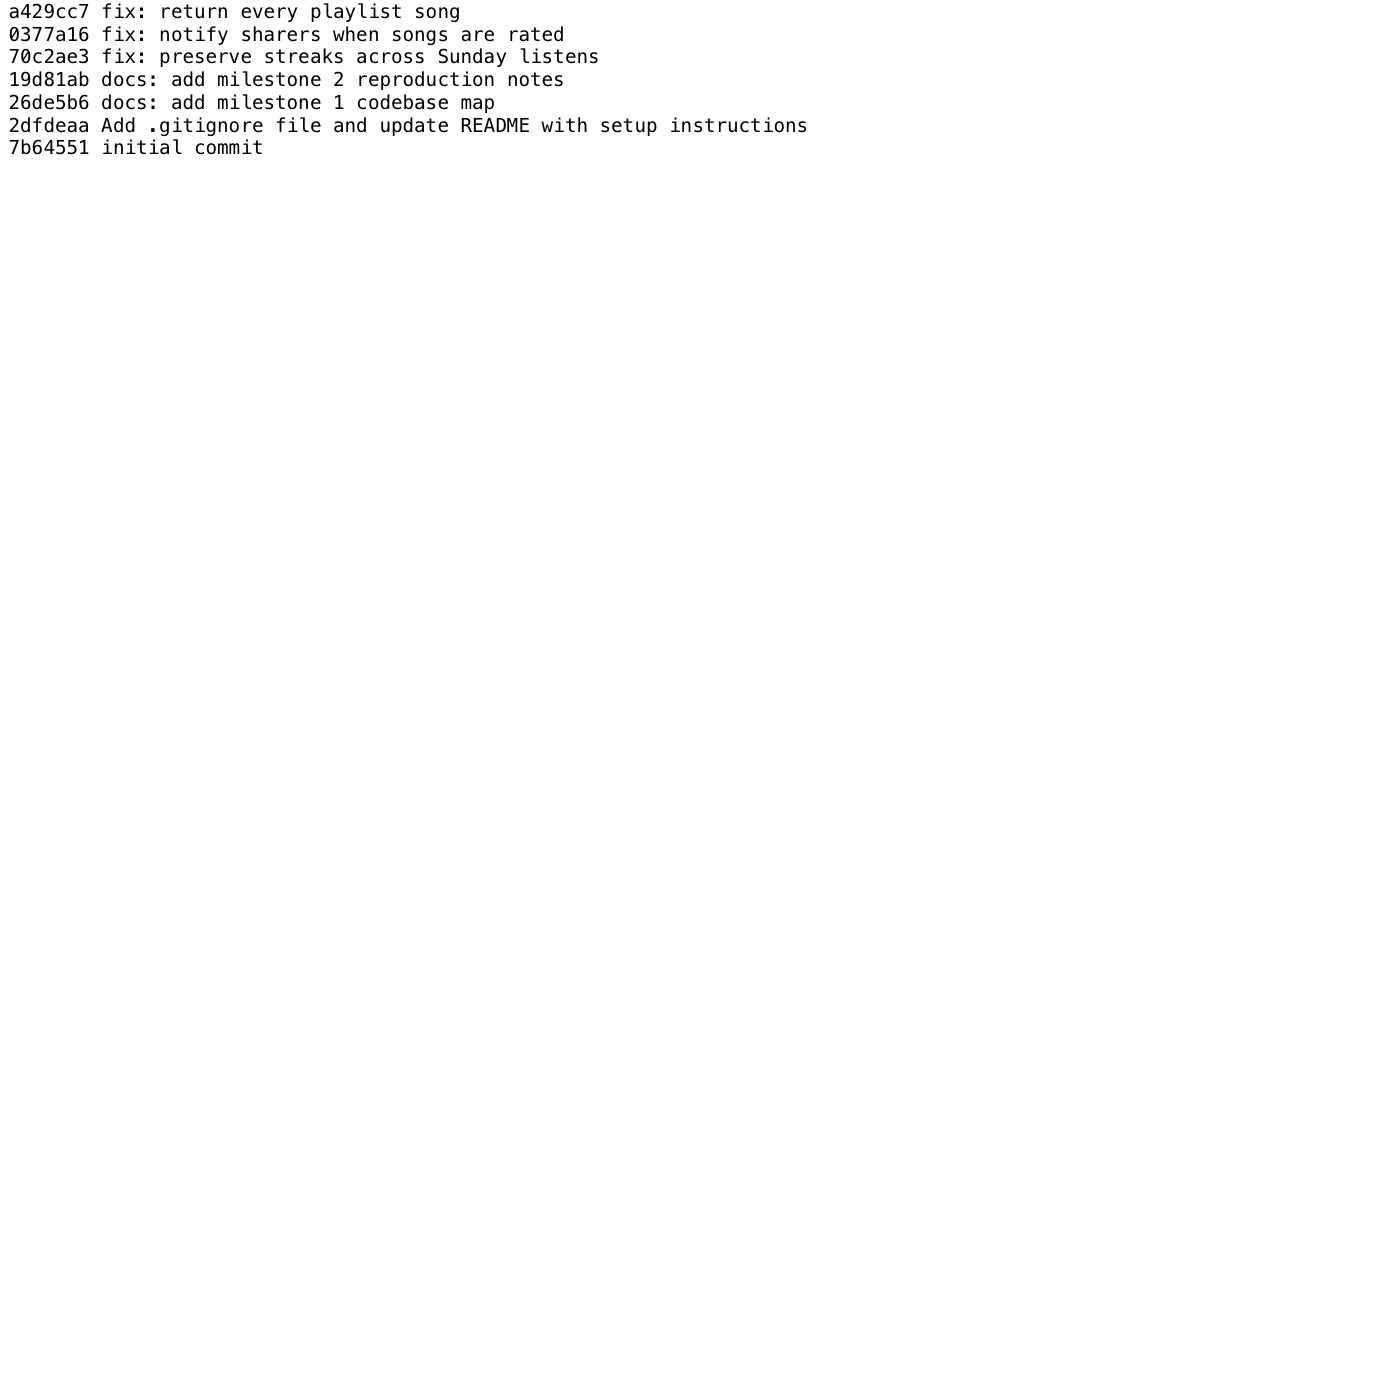
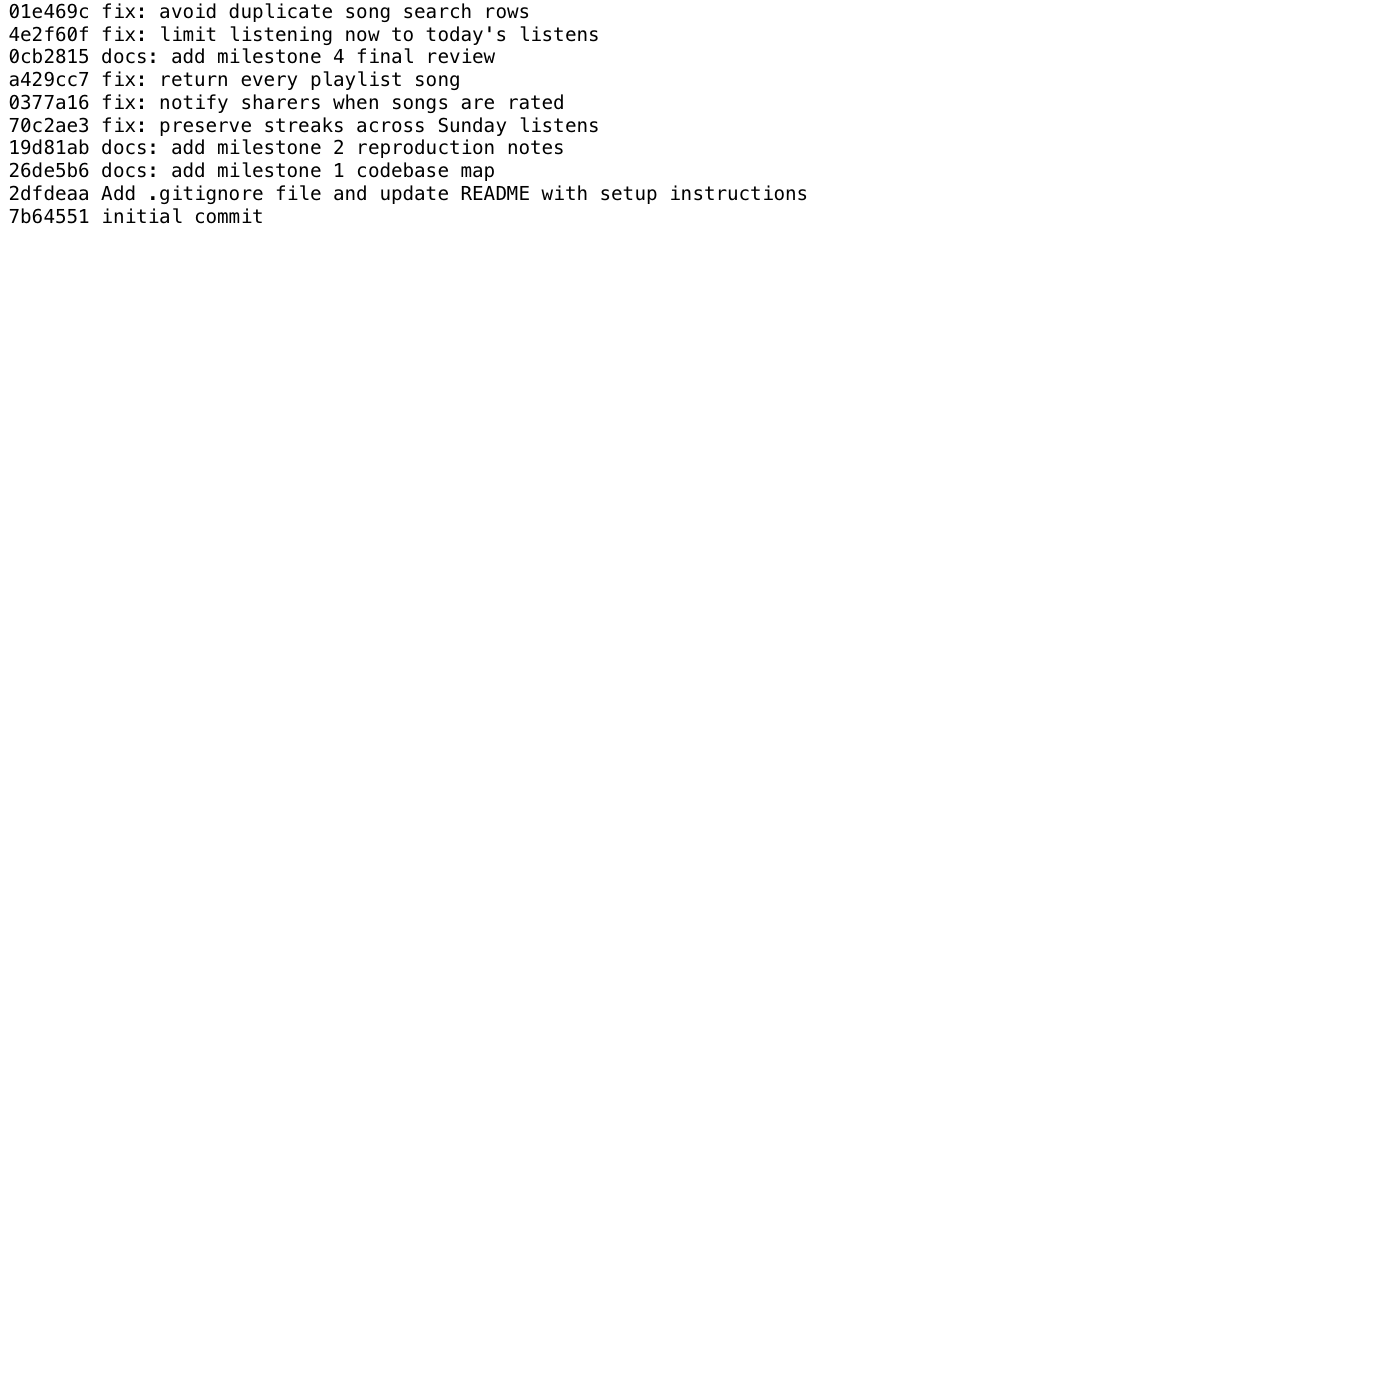
docs: document project 5 stretch features

Changed region(s): [[0.0, 0.0, 0.43, 0.1536], [0.4914, 0.1229, 0.5836, 0.1536], [0.43, 0.1229, 0.4607, 0.1536]]

diff --git a/submission.md b/submission.md
@@ -10,6 +10,8 @@ During Milestone 3, I used Codex to help trace each reproduced symptom from rout
 
 During Milestone 4, I used Codex to review the final branch history, confirm the root cause analysis entries include all required fields, rerun the full test suite, and create the git log screenshot artifact.
 
+For the stretch features, I used Codex to identify the remaining unfixed issues, trace their service-level root causes, and add a new regression test for the feed date-boundary bug. I verified the search fix by checking the existing multi-tag search test and confirmed the final branch history shows five separate fix commits.
+
 ## Milestone 1: Codebase Map
 
 ### Setup Notes
@@ -166,11 +168,19 @@ I chose Issues #1, #4, and #5 for the first fix pass. I reproduced each one befo
 
 ## Milestone 4: Final Review
 
+### Stretch Features Completed
+
+- Fix a 4th bug: Issue #2 is fixed and documented with a complete RCA entry.
+- Fix all 5 bugs: Issues #1 through #5 are fixed and documented with complete RCA entries.
+- Regression test: `tests/test_notifications.py` verifies rating notifications, and `tests/test_feed.py` verifies that "Friends Listening Now" excludes previous-day listens. Both tests would fail against the buggy behavior they cover.
+
 ### Git Log Review
 
 The `bugfix/mixtape` branch has one separate `fix:` commit per fixed bug:
 
 ```text
+01e469c fix: avoid duplicate song search rows
+4e2f60f fix: limit listening now to today's listens
 a429cc7 fix: return every playlist song
 0377a16 fix: notify sharers when songs are rated
 70c2ae3 fix: preserve streaks across Sunday listens
@@ -180,7 +190,7 @@ Git log screenshot artifact: `git-log-oneline.png`
 
 ### RCA Review
 
-I reviewed the root cause analysis entries for Issues #1, #4, and #5. Each entry includes:
+I reviewed the root cause analysis entries for Issues #1, #2, #3, #4, and #5. Each entry includes:
 
 - Issue number and title
 - How I reproduced it
@@ -191,5 +201,5 @@ I reviewed the root cause analysis entries for Issues #1, #4, and #5. Each entry
 ### Final Validation
 
 - Ran `python -m pytest tests/`.
-- Result: `15 passed`.
+- Result: `16 passed`.
 - Branch URL for submission: `https://github.com/neonforestmist/ai201-project5-mixtape-starter/tree/bugfix/mixtape`
